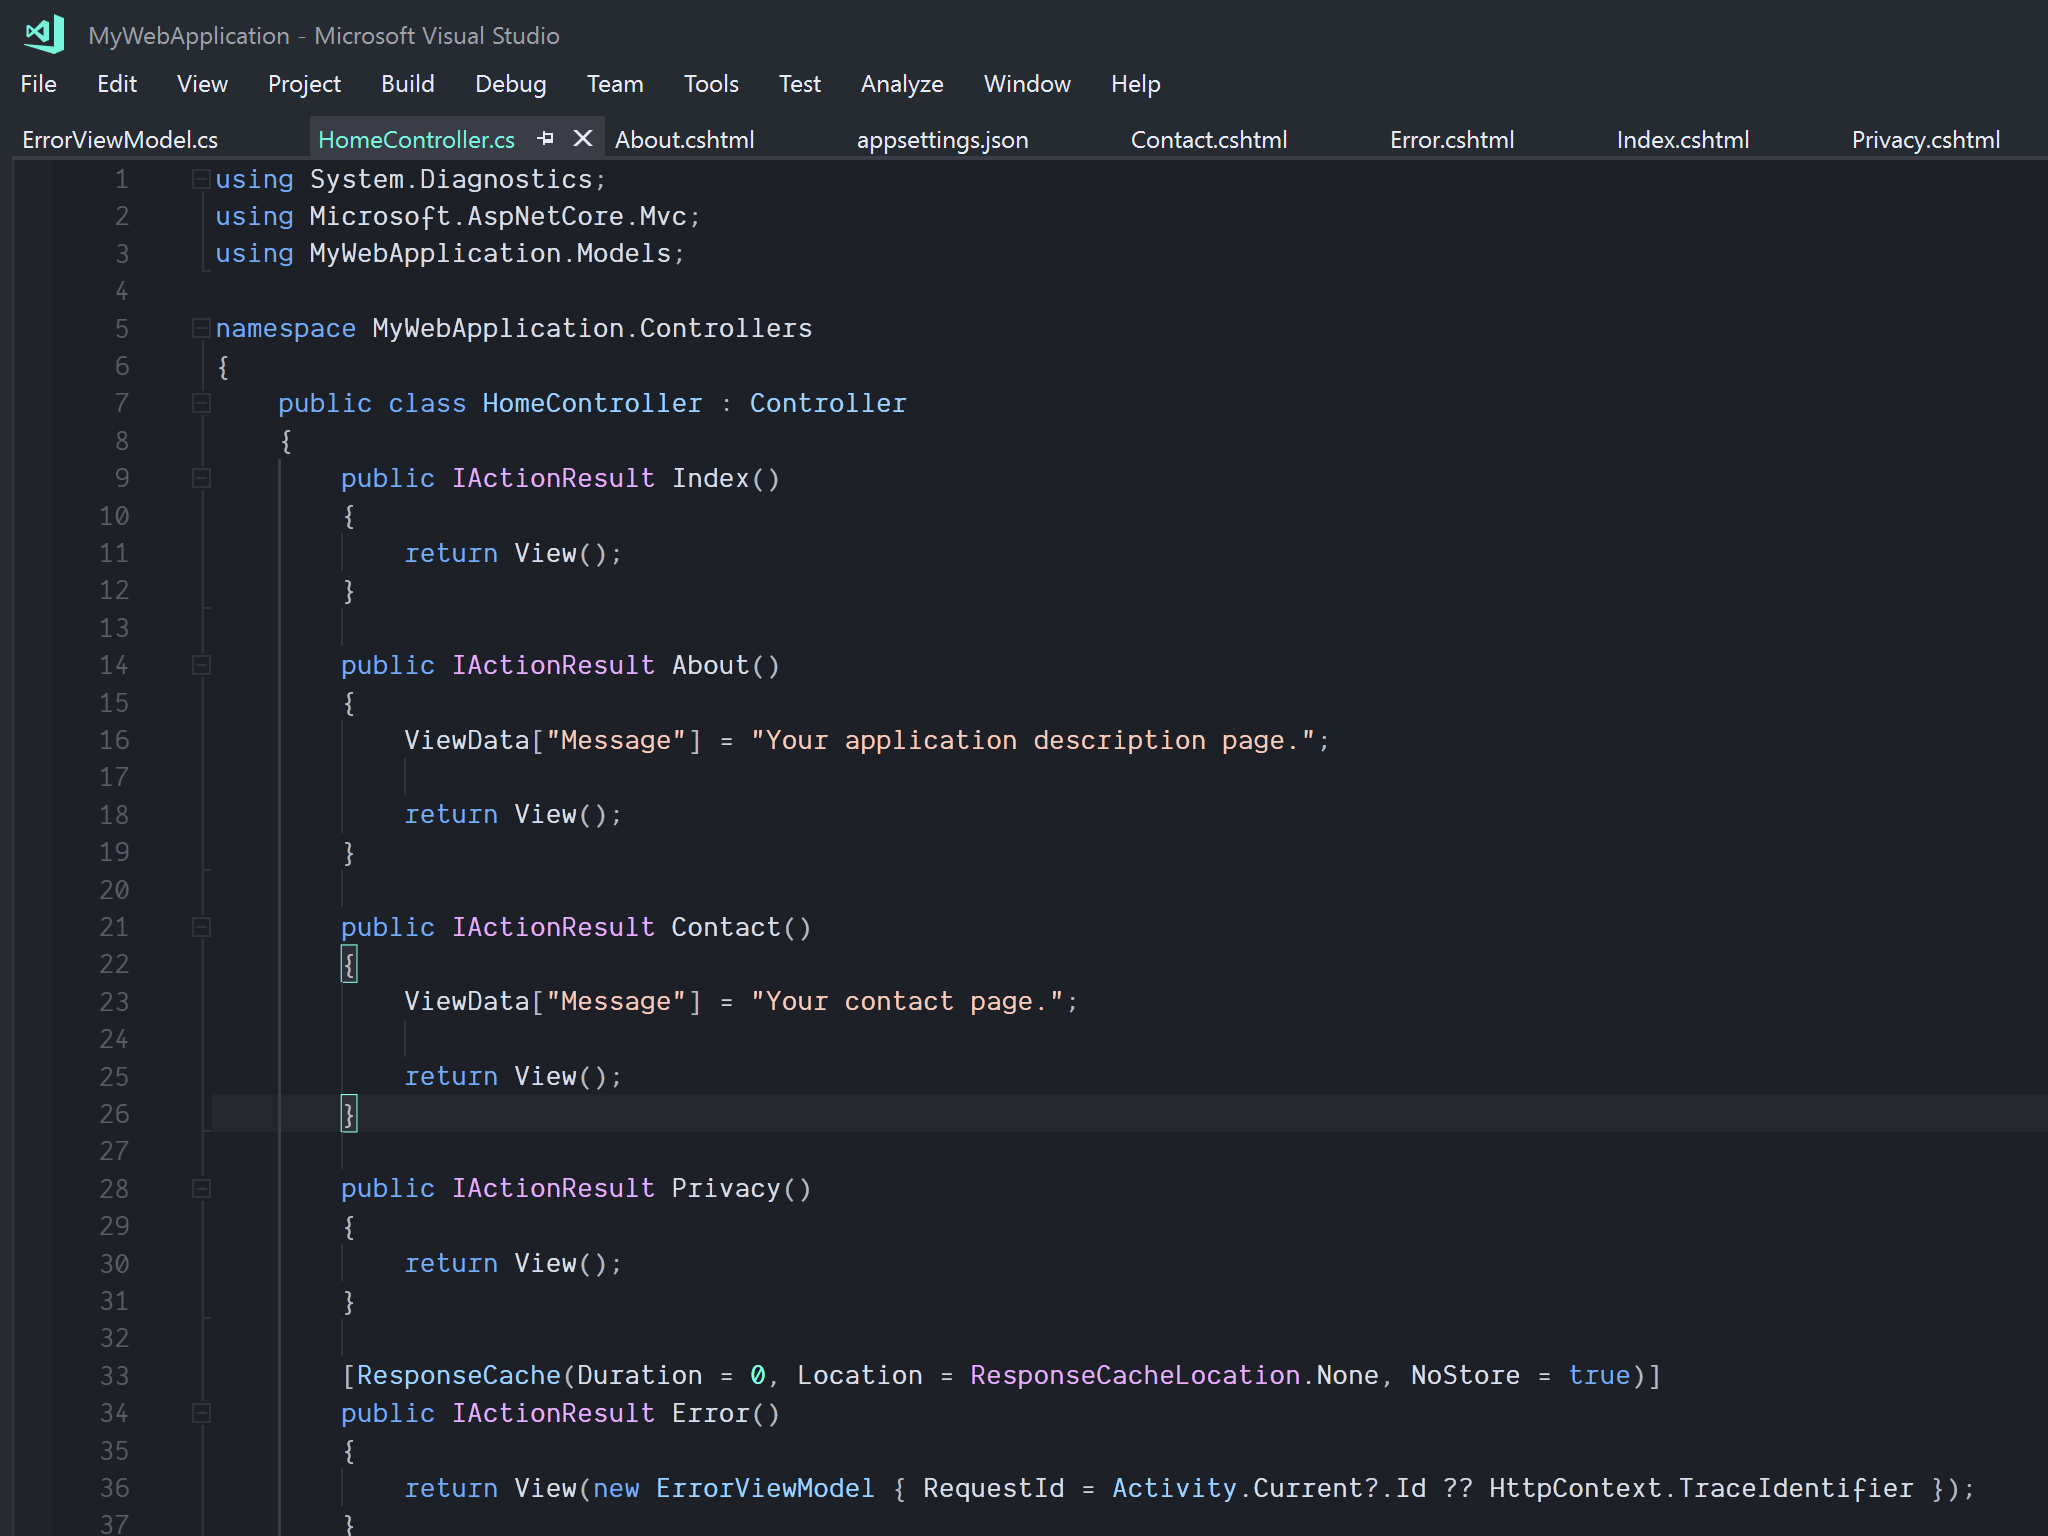
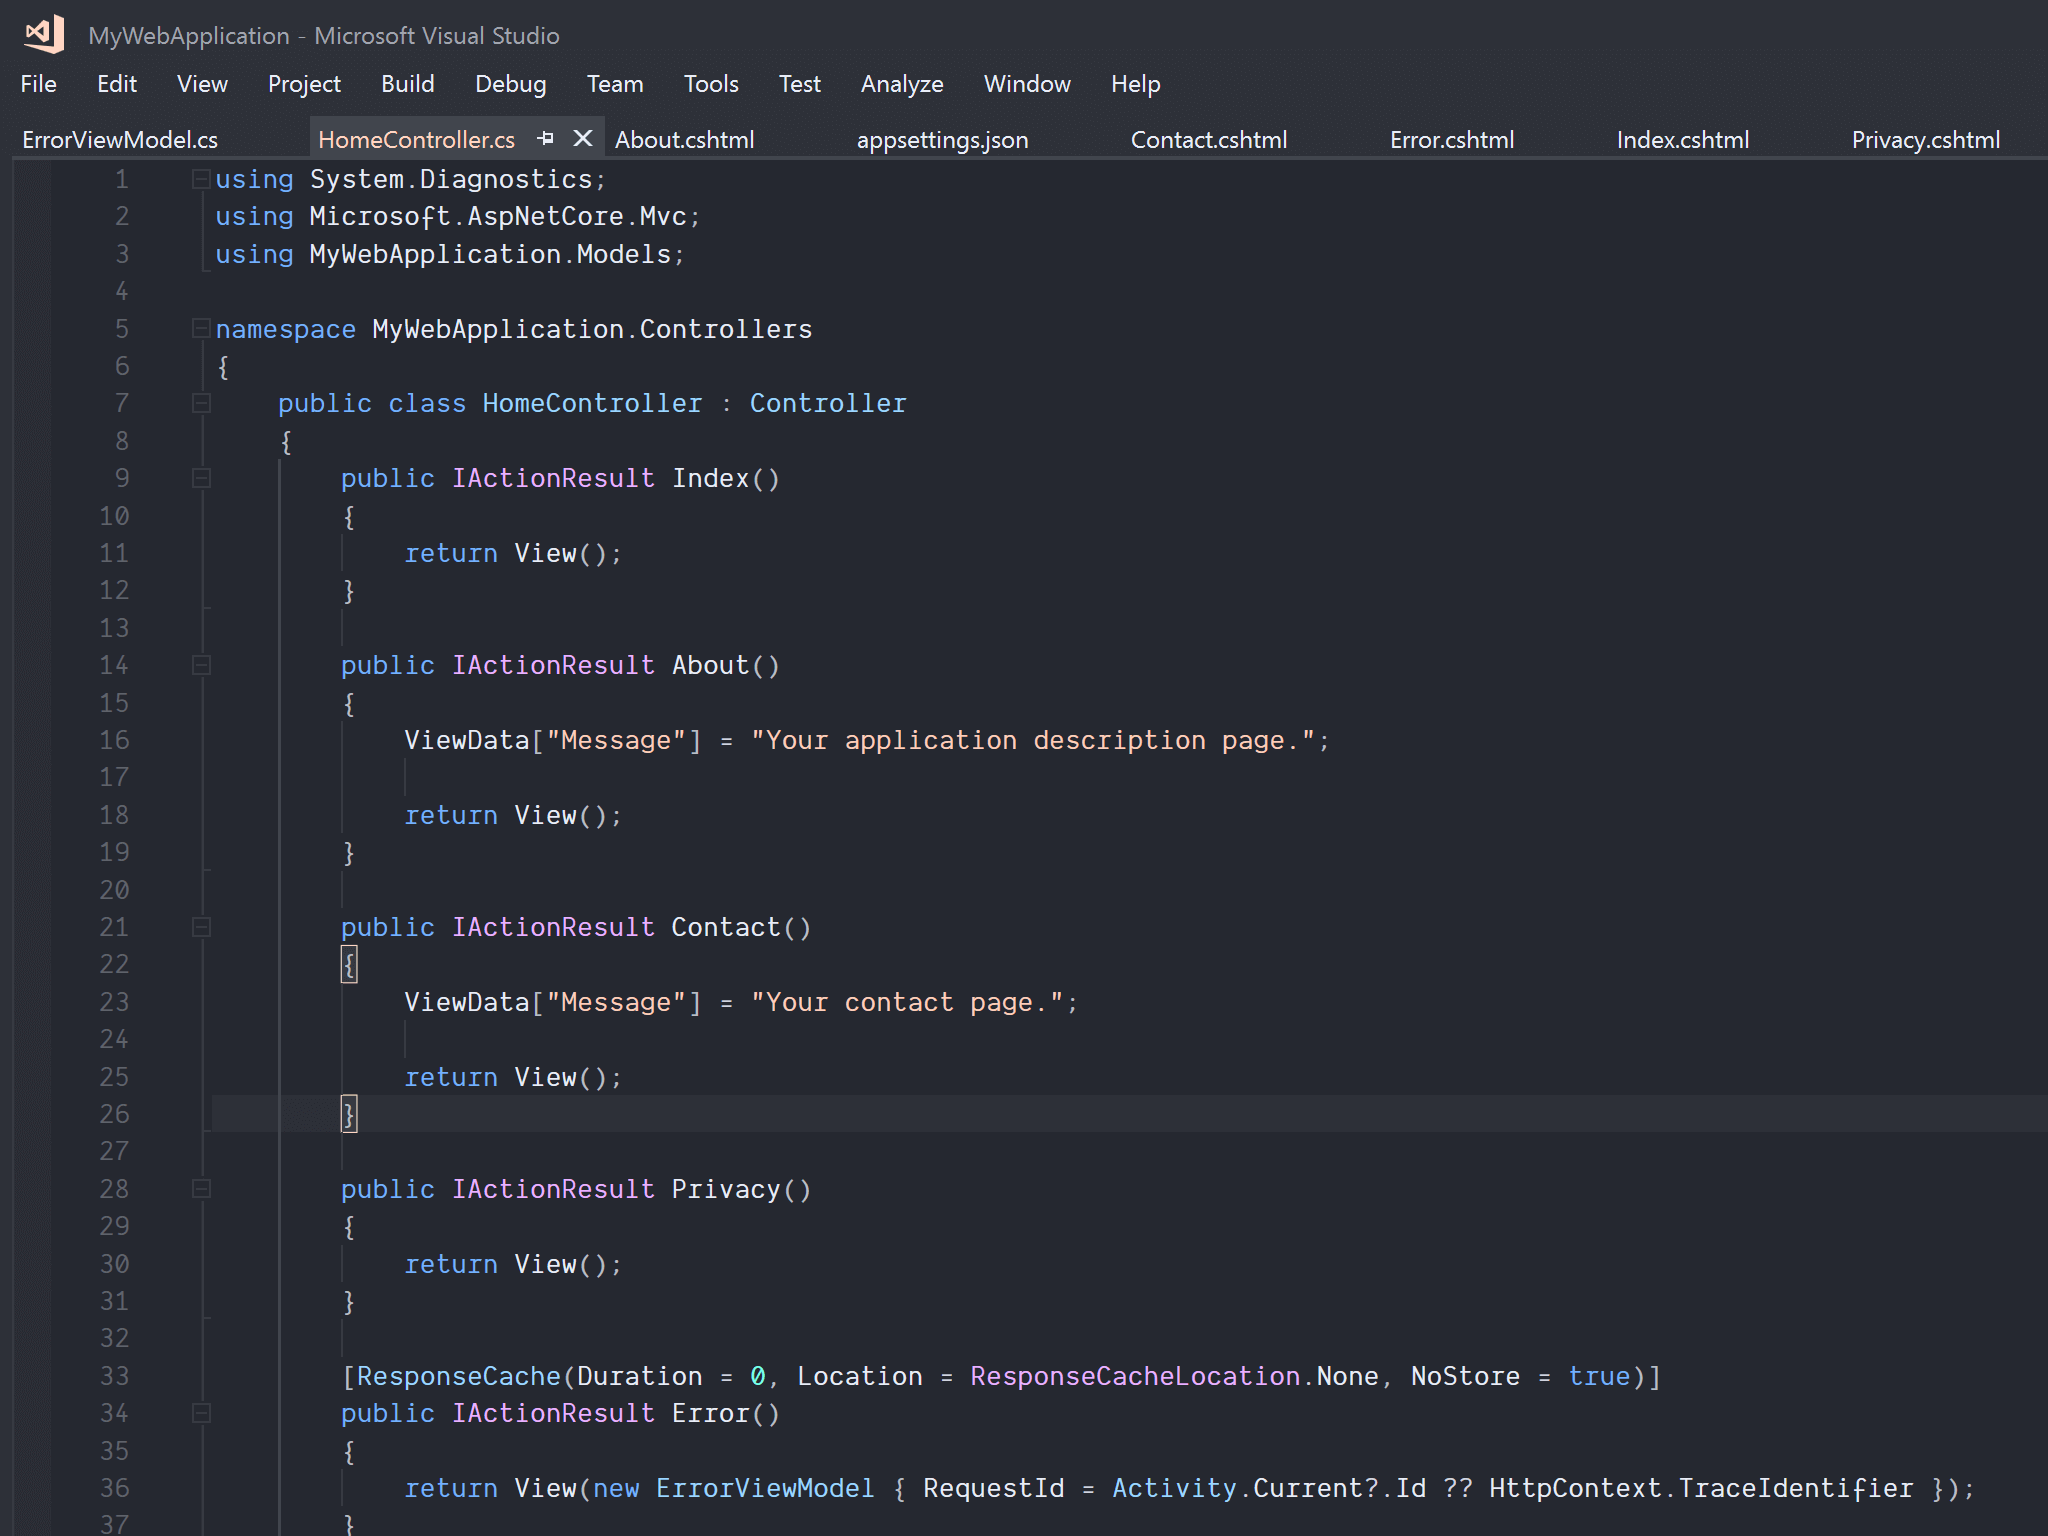
Adjust colors

diff --git a/src/colors.js b/src/colors.js
@@ -3,16 +3,17 @@ const culori = require("culori");
 function generateScale(color, override, adjustments) {
   const maximumLightness = 100;
   const maximumChroma = 131.207;
-  const shadeLightnessMultiplier = 2.35;
+  const lightnessMultiplier = 2.25;
 
-  let chromaDivisor = 3.25;
+  let chromaDivisor = 3;
   let hue = 0;
   let chromaAdjustment = 0;
+  let lightnessAdjustment = 0;
 
   switch (color) {
     case "BLUE_GRAYS":
       hue = 270;
-      chromaDivisor = 25;
+      chromaDivisor = 24;
       break;
     case "BLUES":
       hue = 270 - 90 / 16;
@@ -25,15 +26,16 @@ function generateScale(color, override, adjustments) {
       break;
     case "ORANGES":
       hue = 45;
-      chromaAdjustment = -(maximumChroma / 6);
+      chromaAdjustment -= maximumChroma / 6;
       break;
   }
 
-  chromaAdjustment +=
-    color === "BLUE_GRAYS" ? adjustments.chroma : adjustments.chroma * 2;
-
-  const additionalLightness =
-    color === "BLUE_GRAYS" ? adjustments.lightness : 0;
+  if (color === "BLUE_GRAYS") {
+    chromaAdjustment += adjustments.chroma;
+    lightnessAdjustment += adjustments.lightness;
+  } else {
+    chromaAdjustment += adjustments.chroma * 2;
+  }
 
   const lchOverride = override ? culori.lch(override) : null;
 
@@ -44,8 +46,8 @@ function generateScale(color, override, adjustments) {
       mode: "lch",
       h: lchOverride ? lchOverride.h : hue,
       l:
-        (additionalLightness / 40) * (39 - i) +
-        (maximumLightness - shadeLightnessMultiplier * (39 - i)),
+        (lightnessAdjustment / 40) * (39 - i) +
+        (maximumLightness - lightnessMultiplier * (39 - i)),
       c: lchOverride
         ? lchOverride.c
         : maximumChroma / chromaDivisor + chromaAdjustment

diff --git a/src/replacements/theme.js b/src/replacements/theme.js
@@ -226,10 +226,10 @@ function getSearchReplaceReplacements(configuration, colors) {
     ["#0097fb", blueGrays[32 + c]],
 
     // launchSettings.json property
-    ["#d7ba7d", blueGrays[34]],
+    ["#d7ba7d", blueGrays[32 + c]],
 
     // Punctuation, method names
-    ["#dcdcdc", blueGrays[34]],
+    ["#dcdcdc", blueGrays[32 + c]],
 
     // Status bar, Visual Studio logo, active tab, selected Solution Explorer item
     ["#ffffff", colors.accent[34]],
